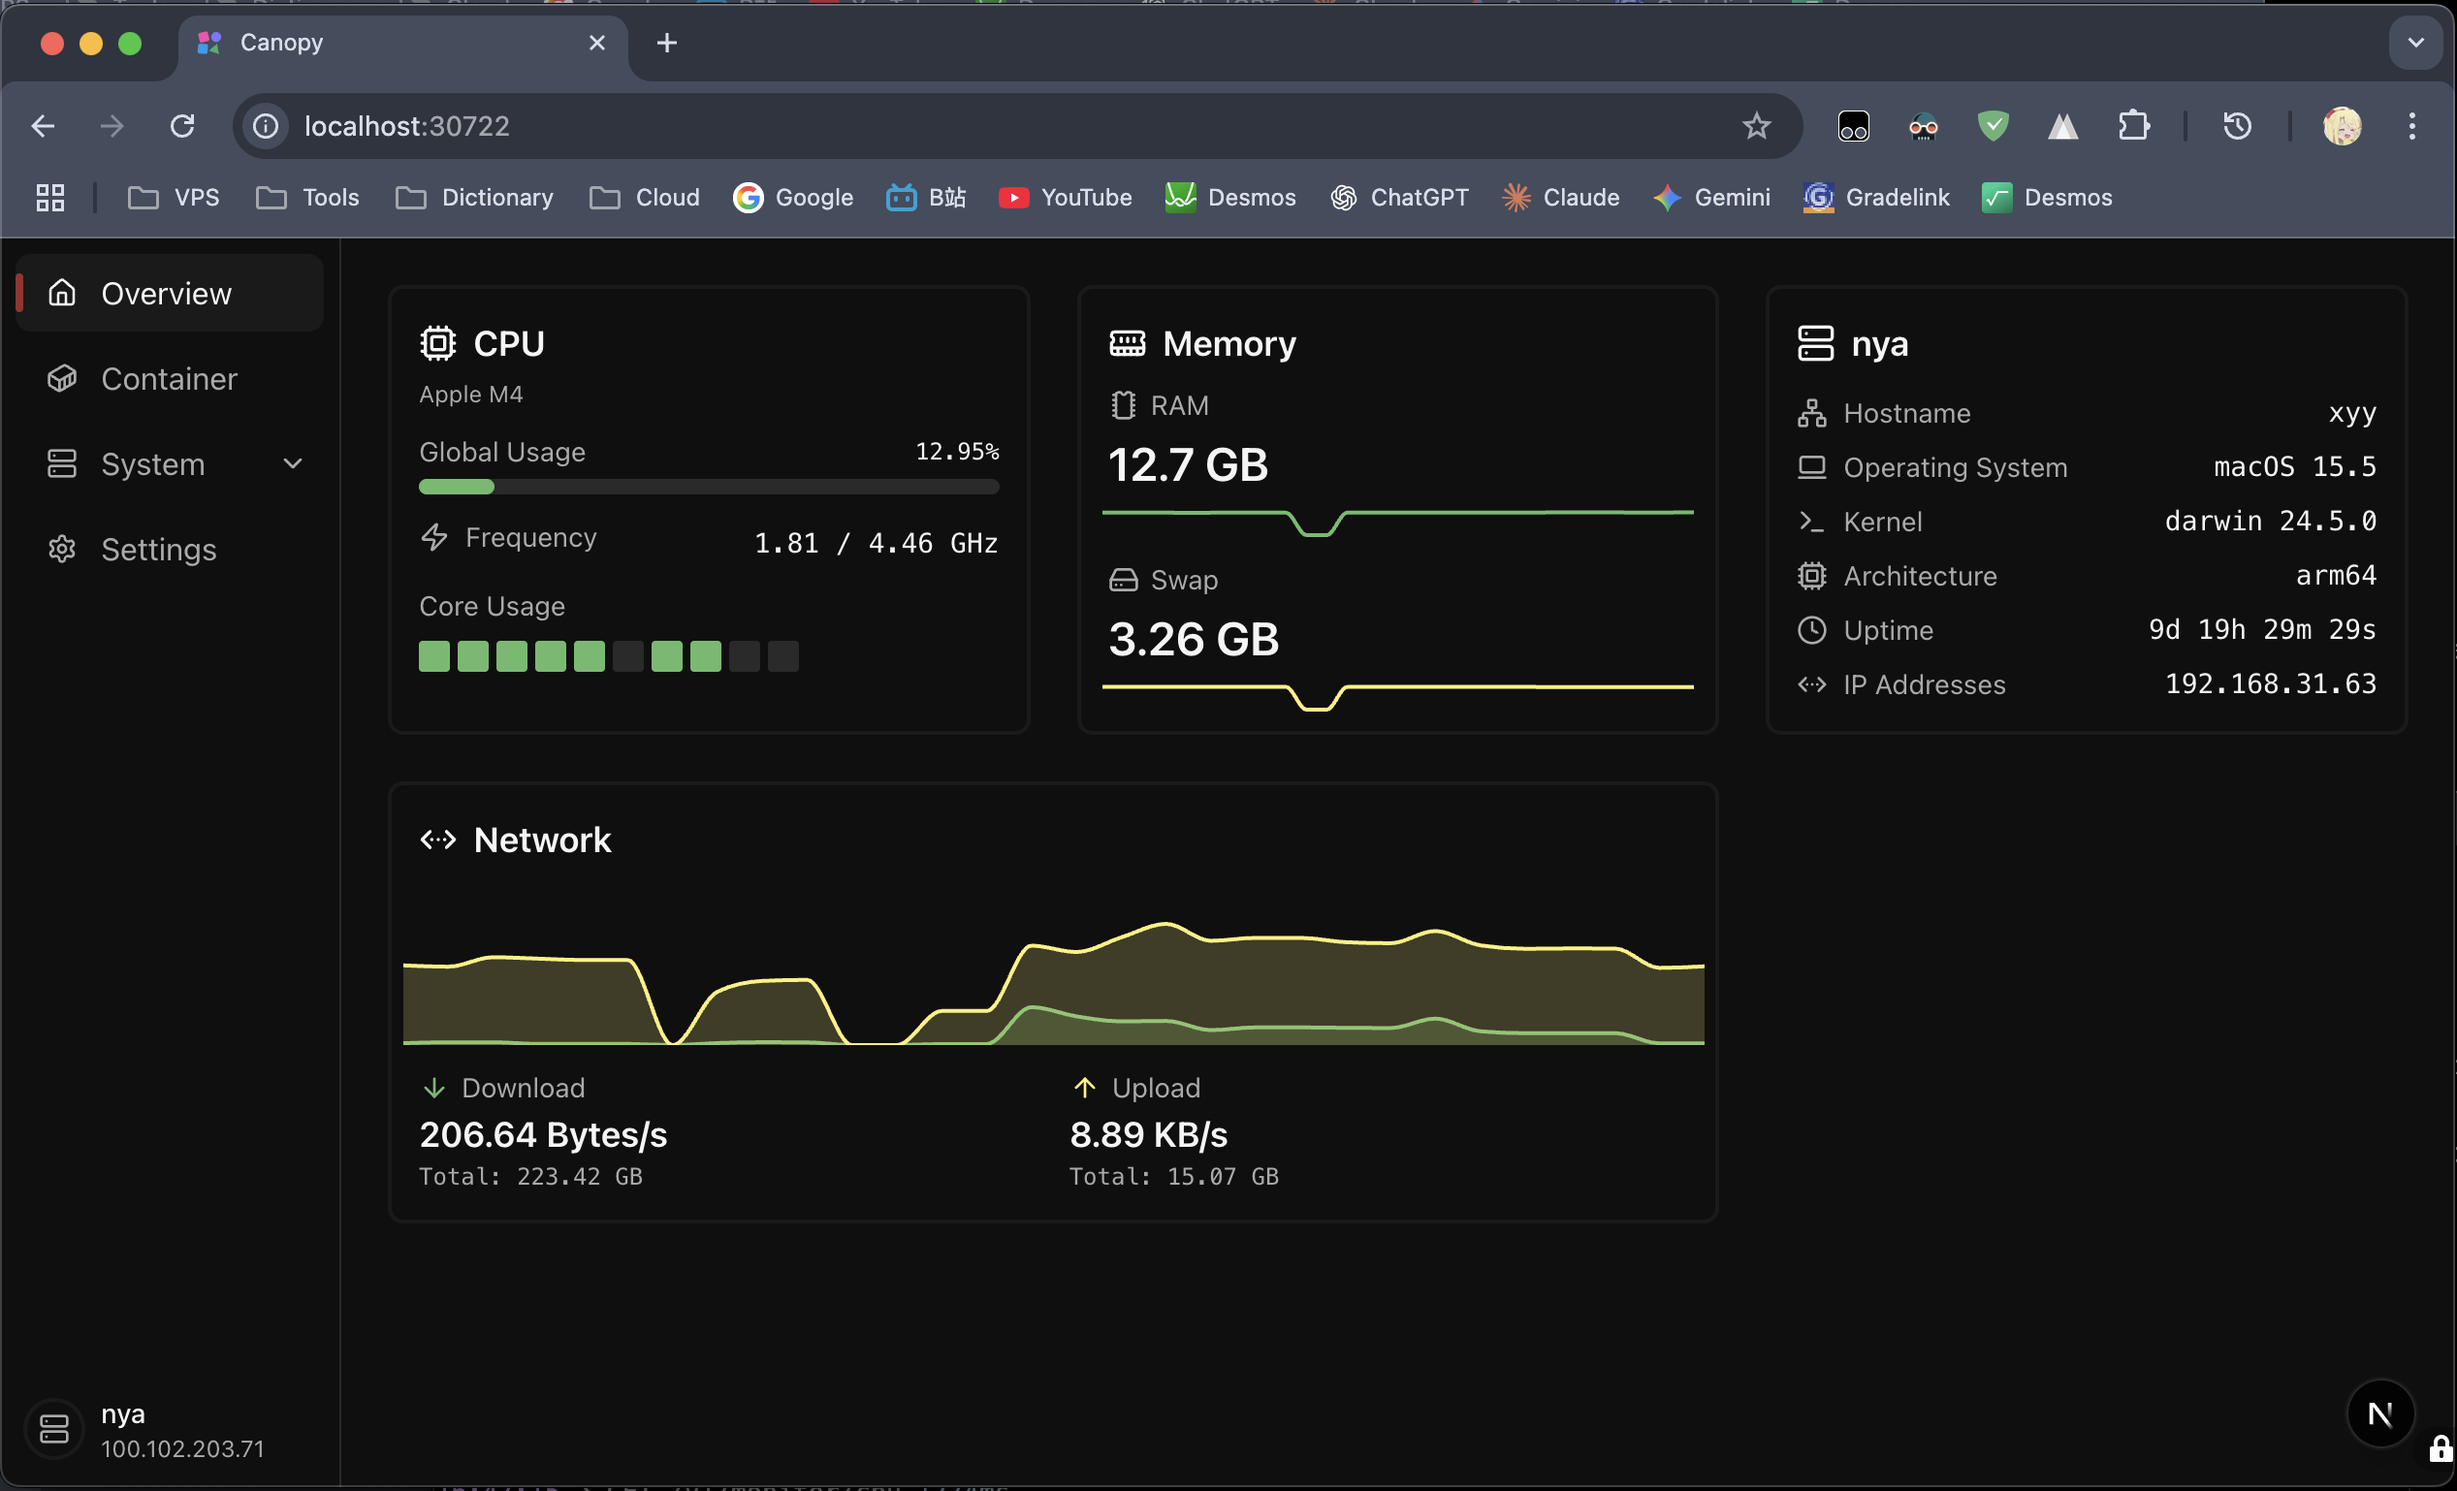
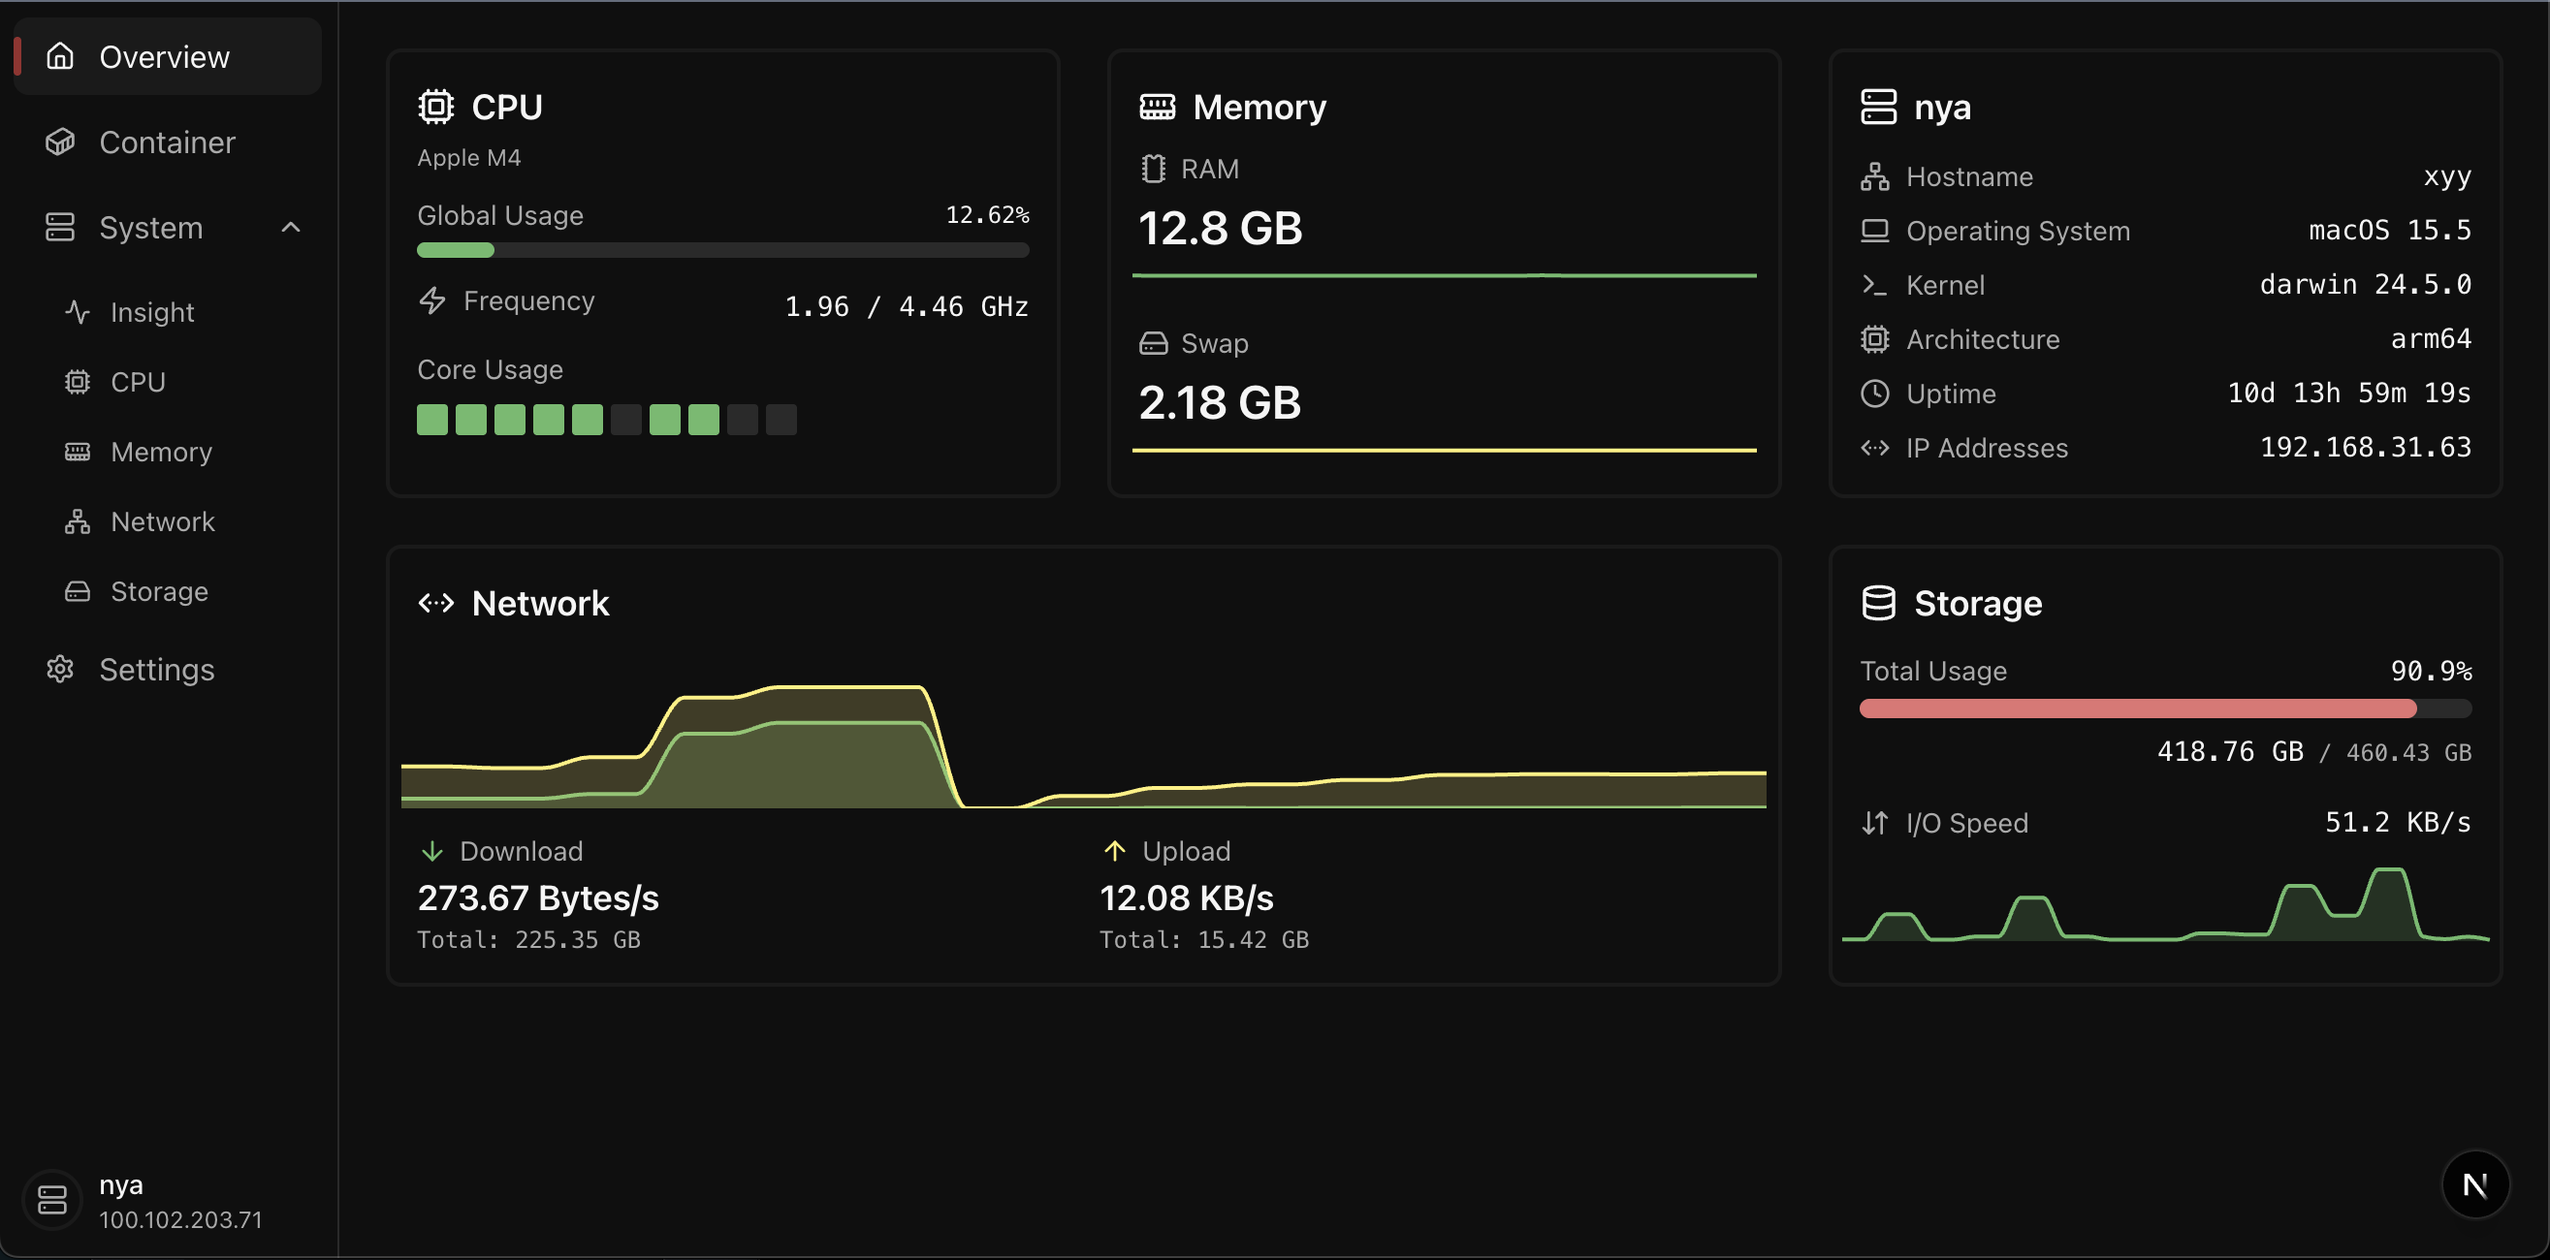
feat: widget v2

diff --git a/src/widgets/memory-v2.tsx b/src/widgets/memory-v2.tsx
@@ -1,0 +1,240 @@
+/* /src/widgets/memory.tsx */
+
+'use client';
+
+import { useState, useEffect, useRef } from 'react';
+import { request } from '~/api/request';
+import { motion, AnimatePresence, useSpring, useTransform } from 'framer-motion';
+import { MemoryStick, HardDrive, RotateCw, Unplug, Microchip } from 'lucide-react';
+import * as Tooltip from '@radix-ui/react-tooltip';
+
+// --- Type Definitions for API data ---
+interface MemoryInfo {
+  total: number;
+  used: number;
+  total_swap: number;
+  used_swap: number;
+  unit: 'bytes';
+}
+
+// --- Helper function to format bytes ---
+const formatBytes = (bytes: number, decimals = 2): string => {
+  if (bytes === 0) return '0 Bytes';
+  const k = 1024;
+  const dm = decimals < 0 ? 0 : decimals;
+  const sizes = ['B', 'KB', 'MB', 'GB', 'TB', 'PB'];
+  const i = Math.floor(Math.log(bytes) / Math.log(k));
+  return parseFloat((bytes / Math.pow(k, i)).toFixed(dm)) + ' ' + sizes[i];
+};
+
+// --- Animated Number Component ---
+const AnimatedNumber = ({ value }: { value: number }) => {
+  const spring = useSpring(value, { mass: 0.8, stiffness: 75, damping: 15 });
+  const display = useTransform(spring, (current) => formatBytes(current, 2));
+
+  useEffect(() => {
+    spring.set(value);
+  }, [spring, value]);
+
+  return <motion.span>{display}</motion.span>;
+};
+
+// --- Usage Bar Component ---
+const UsageBar = ({ usage }: { usage: number }) => {
+  const getBarColor = () => {
+    if (usage >= 90) return 'var(--red-color)';
+    if (usage >= 70) return 'var(--yellow-color)';
+    return 'var(--green-color)';
+  };
+
+  return (
+    <div className="w-full h-2 rounded-full" style={{ backgroundColor: 'var(--tertiary-color)' }}>
+      <motion.div
+        className="h-2 rounded-full"
+        style={{ backgroundColor: getBarColor() }}
+        initial={{ width: '0%' }}
+        animate={{ width: `${usage}%` }}
+        transition={{ duration: 0.5, ease: 'easeInOut' }}
+      />
+    </div>
+  );
+};
+
+
+// --- Metric Display Component (for RAM or Swap) ---
+const MetricDisplay = ({
+  icon: Icon,
+  label,
+  currentValue,
+  totalValue,
+}: {
+  icon: React.ElementType;
+  label: string;
+  currentValue: number;
+  totalValue: number;
+}) => {
+  const percentage = totalValue > 0 ? (currentValue / totalValue) * 100 : 0;
+
+  return (
+    <Tooltip.Provider delayDuration={100}>
+      <Tooltip.Root>
+        <Tooltip.Trigger asChild>
+          <div className="flex-1 flex flex-col justify-center cursor-default">
+            <div className="flex items-center text-sm" style={{ color: 'var(--subtext-color)' }}>
+              <Icon className="w-4 h-4 mr-1.5" />
+              <span>{label}</span>
+            </div>
+            <div className="flex items-end justify-between mt-1">
+              <p className="font-semibold text-2xl" style={{ color: 'var(--text-color)' }}>
+                <AnimatedNumber value={currentValue} />
+              </p>
+              <span className="font-mono text-sm pb-0.5" style={{ color: 'var(--subtext-color)' }}>
+                {percentage.toFixed(1)}%
+              </span>
+            </div>
+            <div className="mt-2">
+              <UsageBar usage={percentage} />
+            </div>
+          </div>
+        </Tooltip.Trigger>
+        <Tooltip.Portal>
+          <Tooltip.Content
+            side="top"
+            align="center"
+            sideOffset={5}
+            className="p-2 rounded-md text-xs shadow-lg z-50"
+            style={{ backgroundColor: 'var(--primary-color)', border: '1px solid var(--tertiary-color)' }}
+          >
+            <div className="font-mono">
+              <span style={{ color: 'var(--subtext-color)' }}>Total: </span>
+              <span style={{ color: 'var(--text-color)' }}>{formatBytes(totalValue)}</span>
+            </div>
+            <Tooltip.Arrow style={{ fill: 'var(--tertiary-color)' }} />
+          </Tooltip.Content>
+        </Tooltip.Portal>
+      </Tooltip.Root>
+    </Tooltip.Provider>
+  );
+};
+
+// --- Skeleton Loader Component ---
+const MemorySkeleton = () => (
+  <div className="p-3.5 rounded-md h-full flex flex-col" style={{ backgroundColor: 'var(--primary-color)' }}>
+    <div className="h-6 w-1/3 bg-[var(--tertiary-color)] rounded mb-4 animate-pulse"></div>
+    <div className="flex-1 flex flex-col space-y-4">
+      <div className="flex-1 bg-[var(--tertiary-color)] rounded animate-pulse"></div>
+      <div className="flex-1 bg-[var(--tertiary-color)] rounded animate-pulse"></div>
+    </div>
+  </div>
+);
+
+// --- Memory Widget Component ---
+export default function MemoryWidget() {
+  const [info, setInfo] = useState<MemoryInfo | null>(null);
+  const [connectionStatus, setConnectionStatus] = useState<'loading' | 'connected' | 'retrying' | 'disconnected'>('loading');
+
+  const failureCount = useRef(0);
+  const disconnectTimer = useRef<NodeJS.Timeout | null>(null);
+
+  useEffect(() => {
+    let isMounted = true;
+    let nextFetchTimer: NodeJS.Timeout;
+
+    const fetchWithLogic = async () => {
+      if (!isMounted) return;
+
+      const controller = new AbortController();
+      const timeoutId = setTimeout(() => controller.abort(), 5000);
+
+      try {
+        const res = await request('/v1/monitor/memory', { signal: controller.signal });
+        clearTimeout(timeoutId);
+        if (!res.ok) throw new Error('Server responded with an error');
+
+        const data = await res.json();
+        const newInfo = data.data as MemoryInfo;
+
+        if (!isMounted) return;
+
+        failureCount.current = 0;
+        if (disconnectTimer.current) clearTimeout(disconnectTimer.current);
+        setConnectionStatus('connected');
+        setInfo(newInfo);
+
+        nextFetchTimer = setTimeout(fetchWithLogic, 1000);
+      } catch {
+        if (!isMounted) return;
+        clearTimeout(timeoutId);
+
+        failureCount.current++;
+        if (failureCount.current >= 3) {
+          if (connectionStatus !== 'retrying' && connectionStatus !== 'disconnected') {
+            setConnectionStatus('retrying');
+            disconnectTimer.current = setTimeout(() => {
+              if (isMounted) {
+                setConnectionStatus(prevStatus =>
+                  prevStatus === 'retrying' ? 'disconnected' : prevStatus
+                );
+              }
+            }, 3000);
+          }
+        }
+        nextFetchTimer = setTimeout(fetchWithLogic, 1000);
+      }
+    };
+
+    fetchWithLogic();
+
+    return () => {
+      isMounted = false;
+      clearTimeout(nextFetchTimer);
+      if (disconnectTimer.current) clearTimeout(disconnectTimer.current);
+    };
+  // eslint-disable-next-line react-hooks/exhaustive-deps
+  }, []);
+
+  return (
+    <div className="p-0.5 rounded-lg h-full" style={{ backgroundColor: 'var(--secondary-color)' }}>
+      <div className="relative p-3.5 rounded-md h-full" style={{ backgroundColor: 'var(--primary-color)' }}>
+        {info ? (
+          <motion.div key="content" initial={{ opacity: 0 }} animate={{ opacity: 1 }} exit={{ opacity: 0 }} className="h-full flex flex-col">
+            <h2 className="text-lg font-semibold flex items-center mb-2" style={{ color: 'var(--text-color)' }}>
+              <MemoryStick className="w-5 h-5 mr-2" />
+              Memory
+            </h2>
+            <div className="flex-1 flex flex-col space-y-4">
+              <MetricDisplay
+                icon={Microchip}
+                label="RAM"
+                currentValue={info.used}
+                totalValue={info.total}
+              />
+              <MetricDisplay
+                icon={HardDrive}
+                label="Swap"
+                currentValue={info.used_swap}
+                totalValue={info.total_swap}
+              />
+            </div>
+          </motion.div>
+        ) : (
+          <MemorySkeleton />
+        )}
+        <AnimatePresence>
+          {connectionStatus !== 'connected' && (
+            <motion.div
+              key="disconnected-overlay"
+              initial={{ opacity: 0 }}
+              animate={{ opacity: 1 }}
+              exit={{ opacity: 0 }}
+              className="absolute inset-0.5 flex items-center justify-center rounded-md bg-[rgba(var(--primary-color-rgb),0.5)] backdrop-blur-[5px]"
+            >
+              {connectionStatus === 'retrying' && <RotateCw className="w-8 h-8 animate-spin" style={{ color: 'var(--subtext-color)' }} />}
+              {connectionStatus === 'disconnected' && <Unplug className="w-8 h-8" style={{ color: 'var(--subtext-color)' }} />}
+            </motion.div>
+          )}
+        </AnimatePresence>
+      </div>
+    </div>
+  );
+}
